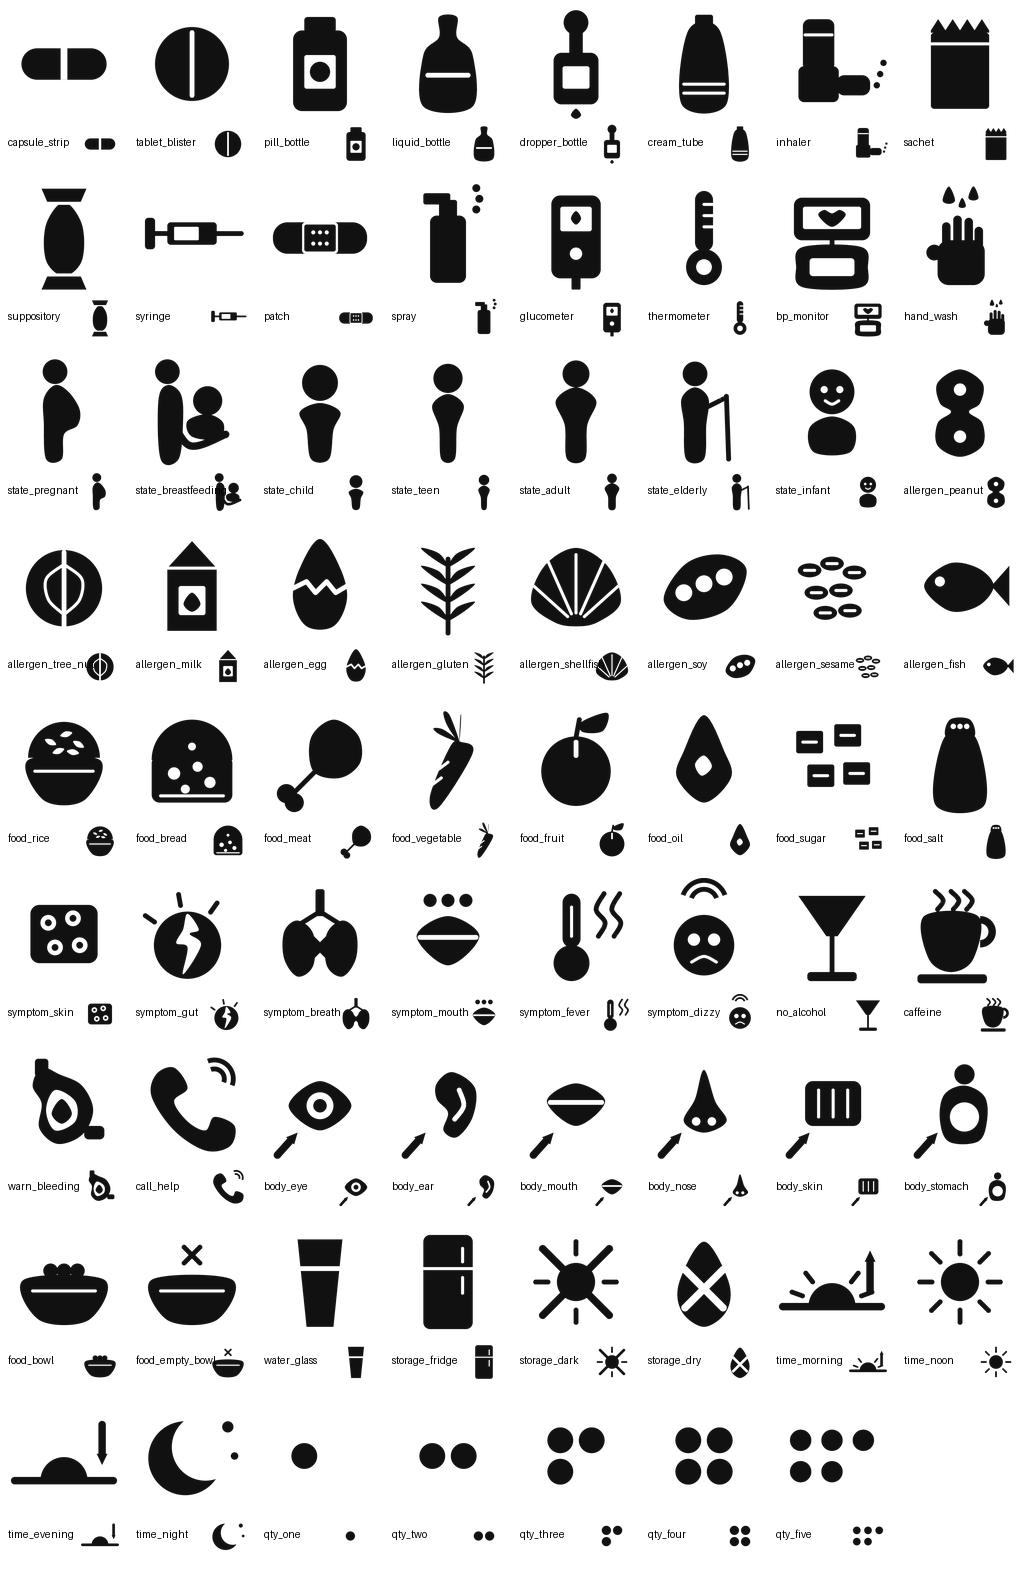
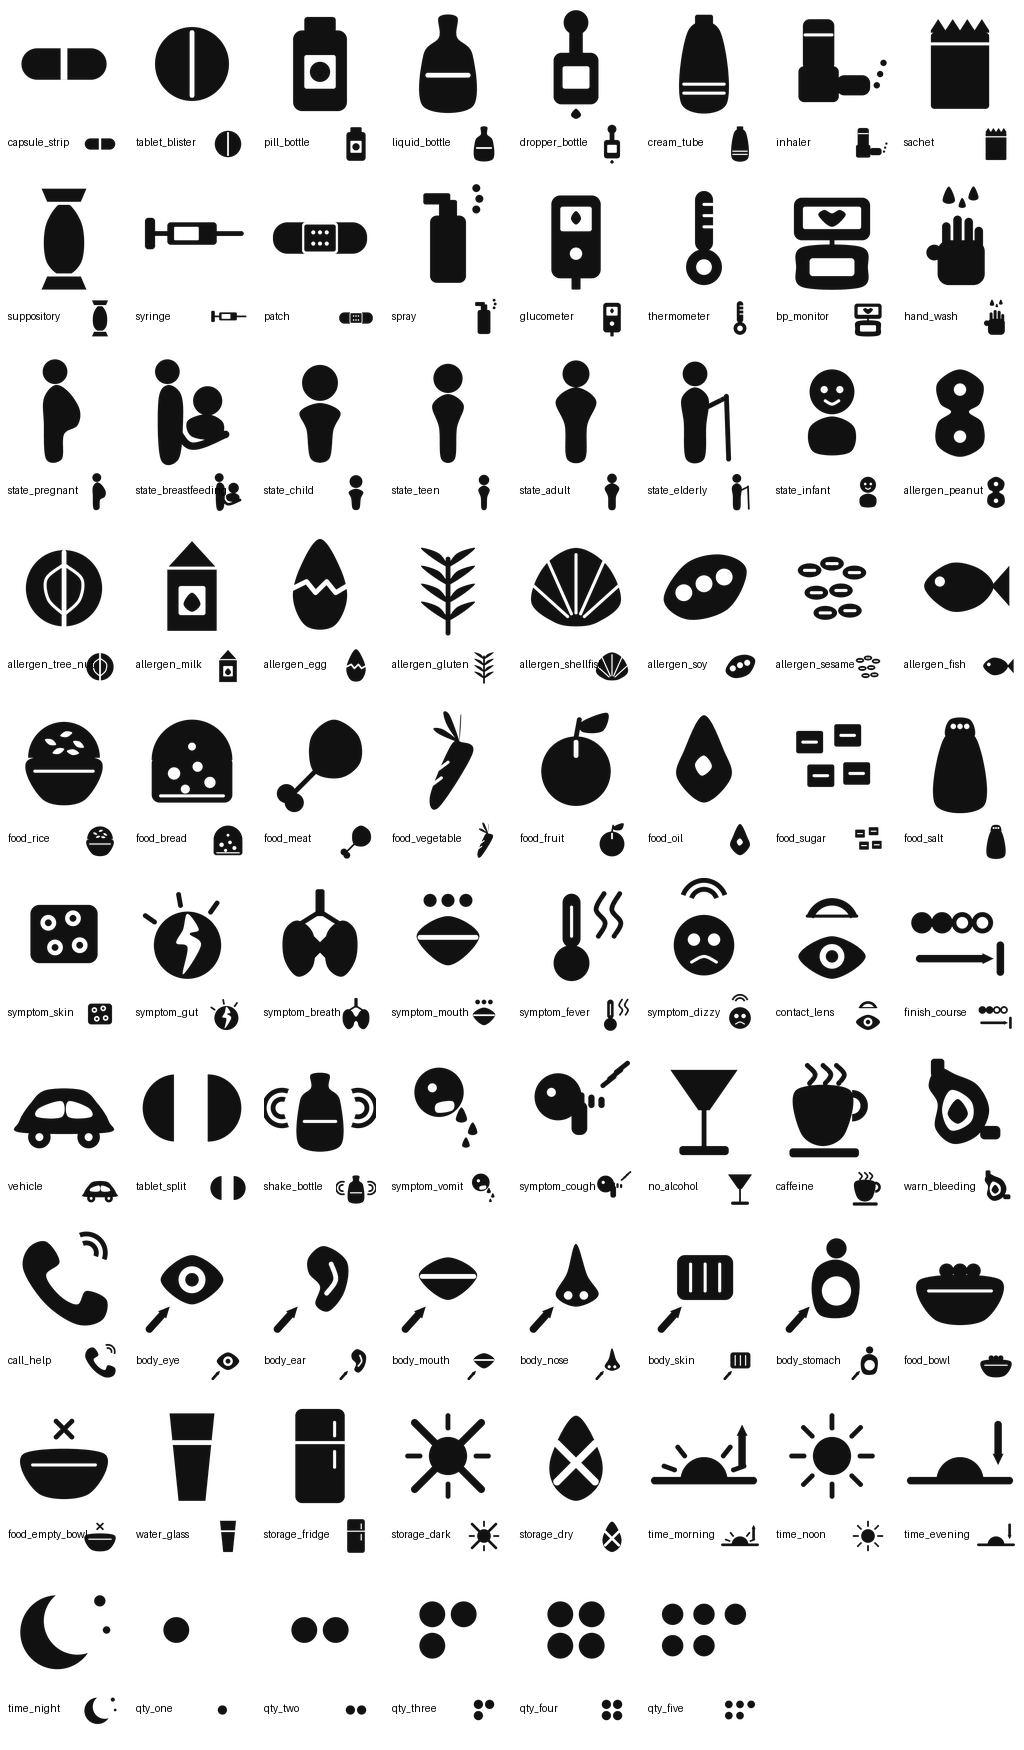
feat(sigil): draw the five instructions the OCR was already reading
Auditing what the extractor produces against what the drawing engine emits
turned up five things being read off the prescription and then dropped before
anything could show them. Three had glyphs sitting unused; two had none.

Taking a drug before meals drew nothing at all, so a drug that must be taken
on an empty stomach looked identical to one with no requirement — the empty
bowl existed and was never asked for. Refrigeration likewise: an antibiotic
syrup left out is unusable within days, and the sheet said so while the screen
did not. Dose count is now dots rather than a numeral, but only where the unit
can be counted: "1 capsule" is a dot, "5 mL" is a volume, and five dots would
read as five tablets.

Two are new. A course with an end date gets a finish mark, because stopping an
antibiotic when the symptoms go is a main route to resistance and "for 7 days"
was being read and discarded. And the contact-lens restriction, which the
extractor has always produced and nothing has ever displayed.

Also seven glyphs: the lens, the course mark, a vehicle and a split tablet as
the subjects of "do not drive" and "do not crush", a bottle being shaken —
suspension that settles doses differently every time — and vomiting and
coughing for the diary, where "upset stomach" had been covering both.

Two failed their first draft. A lens on its own is a hill; it needs the eye it
goes into before the shape means anything. And coughing was a head with
[…]

diff --git a/lib/snapcare/sigil.ts b/lib/snapcare/sigil.ts
@@ -18,6 +18,11 @@ const CADENCE: Record<number, string> = {
   4: 'four_times_daily',
 };
 
+/** 1회 복용 개수 → 점 그림. 숫자가 아니라 셀 수 있는 점으로 보여준다. */
+const QTY: Record<number, string> = {
+  1: 'qty_one', 2: 'qty_two', 3: 'qty_three', 4: 'qty_four', 5: 'qty_five',
+};
+
 const TIME_MOD: Record<string, string> = {
   Morning: 'time_morning',
   Noon: 'time_noon',
@@ -89,32 +94,62 @@ const FORM_SITE: Record<string, string> = {
   syrup: 'body_mouth',
 };
 
-/** 약/처방 → 어떻게 먹는가. 제형·횟수·식사·시간대를 그림으로 옮긴다. */
+/** 약/처방 → 어떻게 먹는가. 순서가 곧 읽는 순서라, 먼저 할 일부터 놓는다. */
 function medicineLabels(item: ScanItem, avoid: boolean): string[] {
   const labels: string[] = [];
   const rx = item.rx;
   const head = (rx?.form && FORM_HEAD[rx.form]) || 'pill_bottle';
   const site = rx?.form ? FORM_SITE[rx.form] : undefined;
-  const withFood = /food|meal/i.test(rx?.dosageText ?? '');
+  const dosage = rx?.dosageText ?? '';
   const freq = rx?.schedule.length ?? 1;
 
   // 회피면 그것부터. 나머지 지시를 읽기 전에 멈춰야 한다.
   if (avoid) labels.push(`\\no{\\${head}}`);
 
-  // 손을 씻고 시작하는 약이 있다 (안약·연고). 순서가 곧 읽는 순서이므로 앞에 놓는다.
+  // 손을 씻고 시작하는 약이 있다 (안약·연고).
   if (rx?.handwash) labels.push('\\hand_wash');
 
   // 슬롯은 하나뿐이다. 부위가 있으면 부위가 먼저다 — 안약에 '식사와 함께' 는 뜻이 없고,
-  // '눈에' 는 이 지시의 절반이다.
-  const slot = site ?? (withFood ? 'food_bowl' : undefined);
+  // '눈에' 는 이 지시의 절반이다. 부위가 없으면 식사 맥락이 그 자리를 쓴다.
+  //
+  // 공복(before meals)은 빈 그릇으로 그린다. 예전에는 '식사와 함께' 만 그렸고 공복은
+  // 아무것도 안 그렸는데, 그러면 식전 약과 아무 조건 없는 약이 같은 그림이 된다 —
+  // 공복에 먹어야 하는 약을 밥과 함께 먹으면 흡수가 달라진다.
+  const meal = /before\s*meal/i.test(dosage) ? 'food_empty_bowl'
+    : /food|with\s*meal/i.test(dosage) ? 'food_bowl'
+    : undefined;
+  const slot = site ?? meal;
   let core = slot ? `\\${head}{\\${slot}}` : `\\${head}`;
   if (CADENCE[freq]) core = `\\${CADENCE[freq]}{${core}}`;
   labels.push(core);
+
+  // 부위가 슬롯을 차지했으면 식사 맥락은 따로 한 칸을 받는다 (둘 다 지시의 일부다).
+  if (site && meal) labels.push(`\\${head}{\\${meal}}`);
 
   for (const s of rx?.schedule ?? []) {
     const tm = TIME_MOD[s.label];
     if (tm) labels.push(`\\${head}{\\${tm}}`);
   }
+
+  // 한 번에 몇 개인가. 숫자를 못 읽는 사용자에게 '1정' 은 점 하나로만 도착한다.
+  if (rx?.doseCount && QTY[rx.doseCount]) labels.push(`\\${head}{\\${QTY[rx.doseCount]}}`);
+
+  // 보관. 냉장이라고 적힌 처방전이 그림에는 나오지 않고 있었다 —
+  // 상온에 둔 항생제 시럽은 며칠이면 못 쓰게 된다.
+  // 보관 표시는 수식어라 단독으로 설 수 없다 — 무엇을 그렇게 보관하라는 것인지가
+  // 함께 있어야 뜻이 성립하기도 한다. 약을 머리로 두고 슬롯에 넣는다.
+  const storage = rx?.storage === 'refrigerator' ? 'storage_fridge'
+    : rx?.storage === 'room' ? 'storage_dry'
+    : undefined;
+  if (storage) labels.push(`\\${head}{\\${storage}}`);
+
+  // 기간이 정해진 약은 끝까지 먹어야 한다. 증상이 가시면 끊는 것이 내성의 주요 경로인데,
+  // 처방전의 '7일간' 이 화면에 도착하지 않으면 그 지시는 없는 것과 같다.
+  if (rx?.durationText && rx.durationText !== 'ongoing') labels.push('\\finish_course');
+
+  // 안약을 넣는 동안 렌즈를 끼면 약이 렌즈에 갇힌다. OCR 이 이미 읽고 있던 값이다.
+  if (rx?.noLens) labels.push('\\no{\\contact_lens}');
+
   return labels;
 }
 

diff --git a/lib/snapcare/fromOcr.ts b/lib/snapcare/fromOcr.ts
@@ -10,6 +10,19 @@ const TIME_SLOT: Record<string, { time: string; label: string; emoji: string }> 
   night: { time: '9:00 PM', label: 'Night', emoji: '🌙' },
 };
 
+/**
+ * 1회 복용량 문자열 → 셀 수 있는 개수.
+ *
+ * '1 capsule' 은 점 하나로 그릴 수 있지만 '5 mL' 는 그릴 수 없다 — 부피는 개수가 아니고,
+ * 점 다섯 개를 그리면 다섯 알로 읽힌다. 세어지는 단위일 때만 숫자를 돌려준다.
+ */
+function countFromAmount(text: string): number | undefined {
+  const m = text.match(/^([\d.]+)\s*(capsules?|tablets?|drops?|puffs?|정|알|캡슐|방울)/i);
+  if (!m) return undefined;
+  const n = Number(m[1]);
+  return Number.isInteger(n) && n >= 1 && n <= 5 ? n : undefined;
+}
+
 /** OCR 텍스트에서 위험 플래그 추정 (알레르기/상호작용 키워드) */
 function flagsFromText(t: string): ItemFlag[] {
   const flags: ItemFlag[] = [];
@@ -60,6 +73,10 @@ export function ocrToScanItem(ocrText: string): { item: ScanItem; rxInfo: Struct
       // 'unknown' 은 제형을 못 알아냈다는 뜻이므로 넘기지 않는다 — 그림 엔진이 기본형을 쓴다
       form: rx.drugForm === 'unknown' ? undefined : rx.drugForm,
       handwash: rx.needsHandwash,
+      storage: rx.storageType ?? undefined,
+      // "Take 1 capsule" · "5 mL" 의 앞 숫자. 셀 수 있는 개수일 때만 그림으로 옮긴다.
+      doseCount: countFromAmount(rx.amountText),
+      noLens: rx.lensRestriction,
       schedule,
     },
   };

diff --git a/lib/snapcare/types.ts b/lib/snapcare/types.ts
@@ -88,6 +88,12 @@ export interface ScanItem {
       | 'injection' | 'suppository' | 'sachet';
     /** 쓰기 전에 손을 씻어야 하는가 (안약·연고 등). OCR 이 이미 판단하는 값이다. */
     handwash?: boolean;
+    /** 보관 방법. 냉장이라고 적힌 처방전이 그림에는 나오지 않고 있었다. */
+    storage?: 'refrigerator' | 'room';
+    /** 1회 복용 개수 (정·캡슐·방울). 세는 그림이 있는데 부르는 곳이 없었다. */
+    doseCount?: number;
+    /** 렌즈 착용 금지 (안약). OCR 이 lensRestriction 으로 이미 뽑는다. */
+    noLens?: boolean;
   };
 }
 

diff --git a/engine/glyphs.py b/engine/glyphs.py
@@ -373,6 +373,79 @@ def food_salt(c: Canvas) -> None:
 # ── 경고 ────────────────────────────────────────────────────
 
 
+def contact_lens(c: Canvas) -> None:
+    # 렌즈만 그리면 언덕이 된다. 렌즈는 그 자체로 알아볼 수 있는 형태가 아니라서,
+    # 들어가는 자리(눈)와 함께 있어야 무엇인지가 정해진다.
+    c.blob([(0.50, 0.52), (0.80, 0.70), (0.50, 0.90), (0.20, 0.70)])   # 눈
+    c.hole_circle(0.50, 0.70, 0.11)
+    c.circle(0.50, 0.70, 0.055, fill=True)
+    c.arc(0.50, 0.42, 0.24, 200, 340, w=STROKE)            # 위에 떠 있는 렌즈
+    c.path([(0.28, 0.34), (0.72, 0.34)], w=HAIR)
+
+
+def finish_course(c: Canvas) -> None:
+    # "며칠간" 을 그리는 그림. 항생제를 증상이 가시면 끊는 것은 내성의 주요 경로이고,
+    # 처방전에 적힌 기간이 화면에 도착하지 않으면 그 지시는 없는 것과 같다.
+    # 먹은 것(채운 원)과 남은 것(빈 원), 그리고 끝까지 가라는 화살표.
+    for i, x in enumerate((0.16, 0.34, 0.52, 0.70)):
+        if i < 2:
+            c.circle(x, 0.40, 0.095, fill=True)
+        else:
+            c.circle(x, 0.40, 0.095, w=THIN)
+    c.arrow(0.14, 0.72, 0.80, 0.72)
+    c.path([(0.86, 0.60), (0.86, 0.84)], w=STROKE)         # 끝 표시
+
+
+def vehicle(c: Canvas) -> None:
+    # 졸음 유발 약의 '운전 금지'. 금지는 \no{} 가 얹는다.
+    c.blob([(0.10, 0.62), (0.20, 0.46), (0.34, 0.34), (0.66, 0.34),
+            (0.80, 0.46), (0.90, 0.62), (0.88, 0.72), (0.12, 0.72)])
+    c.hole_blob([(0.28, 0.50), (0.48, 0.44), (0.48, 0.58), (0.26, 0.58)])
+    c.hole_blob([(0.54, 0.44), (0.72, 0.50), (0.74, 0.58), (0.54, 0.58)])
+    c.circle(0.28, 0.76, 0.10, fill=True)
+    c.circle(0.72, 0.76, 0.10, fill=True)
+    c.hole_circle(0.28, 0.76, 0.035)
+    c.hole_circle(0.72, 0.76, 0.035)
+
+
+def tablet_split(c: Canvas) -> None:
+    # '쪼개지 마시오' 의 재료. 반으로 갈라진 정제 — \no{} 를 씌우면 금지가 된다.
+    c.wedge(0.36, 0.50, 0.30, 90, 270)
+    c.wedge(0.64, 0.50, 0.30, 270, 90)
+    c.path([(0.36, 0.20), (0.36, 0.80)], w=THIN, color=HOLE)
+
+
+def shake_bottle(c: Canvas) -> None:
+    # 현탁액은 흔들지 않으면 농도가 바닥에 몰린다 — 한 번 먹을 때마다 용량이 달라진다.
+    c.blob([(0.42, 0.20), (0.58, 0.20), (0.58, 0.32), (0.68, 0.44),
+            (0.68, 0.84), (0.32, 0.84), (0.32, 0.44), (0.42, 0.32)])
+    c.hole_path([(0.36, 0.62), (0.64, 0.62)], w=HAIR)
+    for sx in (-1, 1):                                      # 흔드는 궤적
+        for i, r in enumerate((0.10, 0.18)):
+            c.arc(0.50 + sx * 0.34, 0.50, r, 250 if sx > 0 else 70, 470 if sx > 0 else 290, w=THIN)
+
+
+def symptom_vomit(c: Canvas) -> None:
+    # 식이 일지의 'gut' 만으로는 체한 것과 토한 것이 같아진다. 알레르기 판정에서
+    # 즉시형 반응의 무게가 다르므로 나눠 받는다.
+    c.circle(0.42, 0.36, 0.22, fill=True)
+    c.hole_circle(0.36, 0.32, 0.04)
+    c.hole_blob([(0.40, 0.46), (0.54, 0.44), (0.54, 0.52), (0.40, 0.54)])   # 벌린 입
+    for x, y, r in ((0.62, 0.58, 0.05), (0.72, 0.70, 0.042), (0.66, 0.82, 0.034)):
+        c.blob([(x, y - r * 1.7), (x + r, y + r * 0.4), (x, y + r), (x - r, y + r * 0.4)])
+
+
+def symptom_cough(c: Canvas) -> None:
+    # 구토와 실루엣이 겹쳤다 (머리 + 튀는 것). 기침은 입을 가린 손이 있어야 갈린다.
+    c.circle(0.34, 0.40, 0.21, fill=True)
+    c.hole_circle(0.28, 0.36, 0.04)
+    c.rect(0.46, 0.44, 0.60, 0.74, r=0.06, fill=True)      # 입을 가린 손
+    for i, x in enumerate((0.52, 0.61, 0.70)):
+        c.rect(x, 0.36 + i * 0.02, x + 0.055, 0.50, r=0.028, fill=True)
+    for i in range(3):                                      # 터져 나오는 공기
+        c.path([(0.74 + i * 0.06, 0.30 - i * 0.06), (0.84 + i * 0.06, 0.22 - i * 0.06)], w=THIN)
+
+
 def no_alcohol(c: Canvas) -> None:
     c.poly([(0.20, 0.16), (0.80, 0.16), (0.55, 0.52), (0.45, 0.52)])   # 잔
     c.path([(0.50, 0.52), (0.50, 0.84)], w=THIN)
@@ -678,6 +751,9 @@ HEADS = {
     "food_sugar": food_sugar, "food_salt": food_salt,
     "symptom_skin": symptom_skin, "symptom_gut": symptom_gut, "symptom_breath": symptom_breath,
     "symptom_mouth": symptom_mouth, "symptom_fever": symptom_fever, "symptom_dizzy": symptom_dizzy,
+    "contact_lens": contact_lens, "finish_course": finish_course, "vehicle": vehicle,
+    "tablet_split": tablet_split, "shake_bottle": shake_bottle,
+    "symptom_vomit": symptom_vomit, "symptom_cough": symptom_cough,
     "no_alcohol": no_alcohol, "caffeine": caffeine,
     "warn_bleeding": warn_bleeding, "call_help": call_help,
 }
